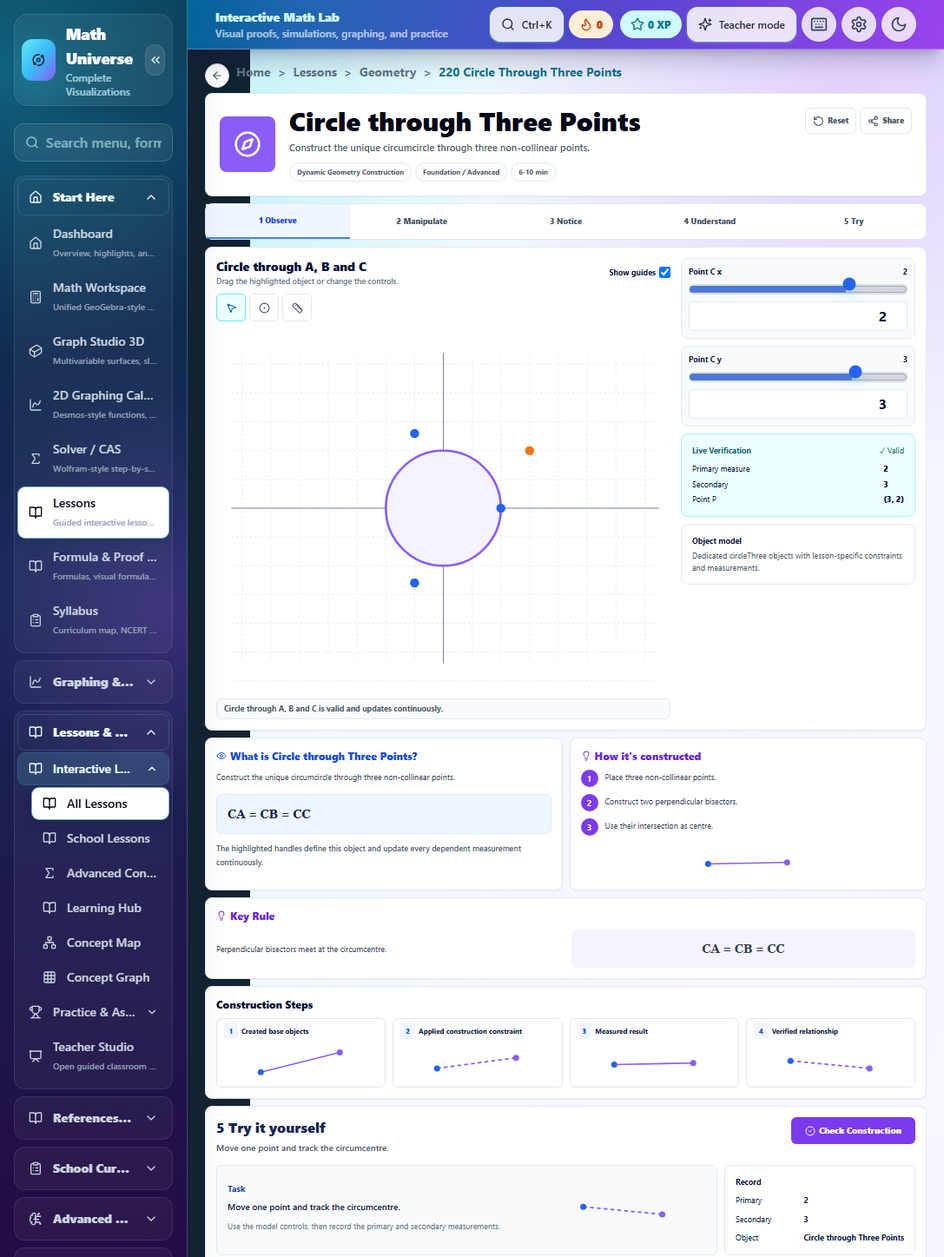
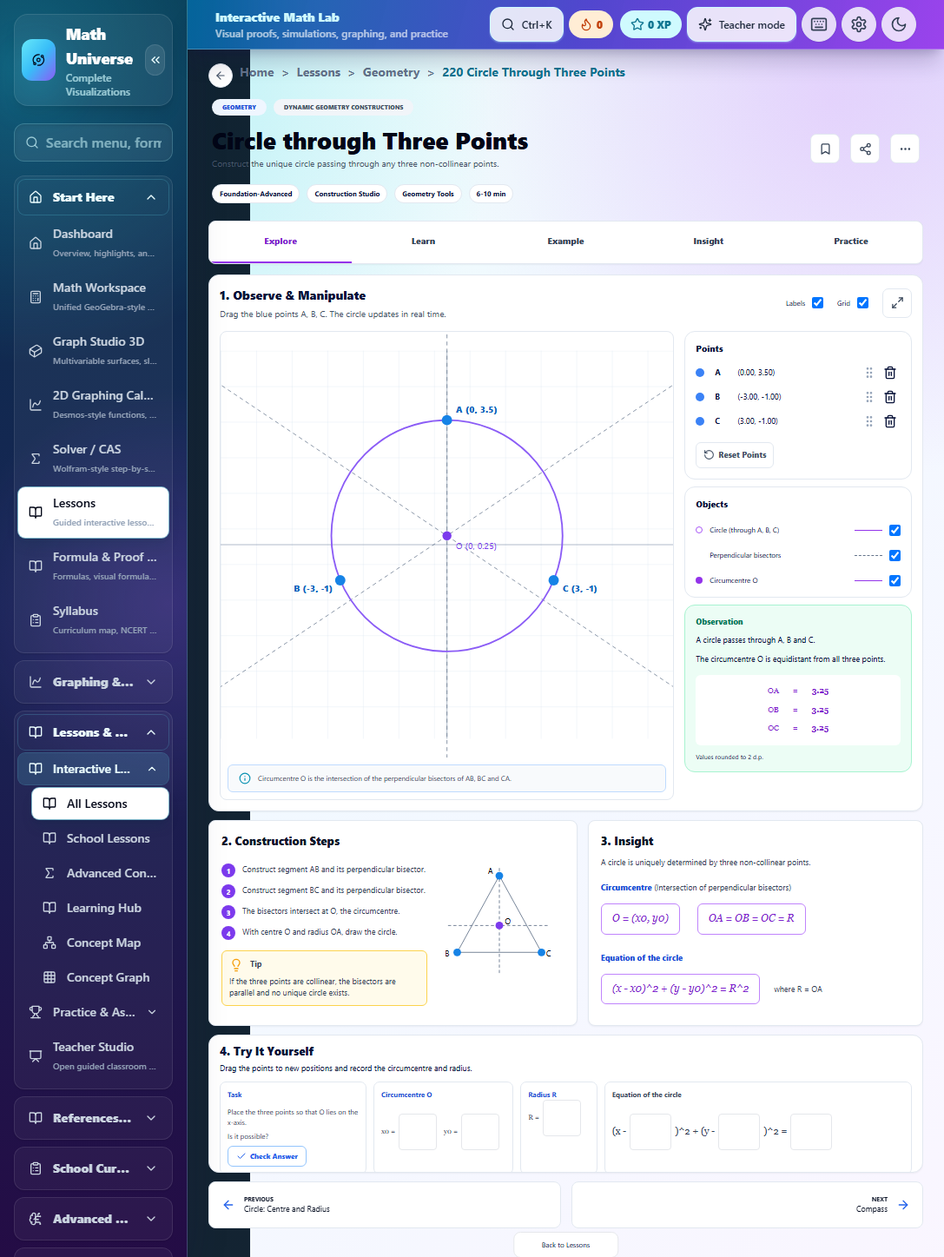
Rebuild three point circle lesson to match target UI

diff --git a/src/modules/lessons/adapters/CircleThreePointsTargetLesson220.tsx b/src/modules/lessons/adapters/CircleThreePointsTargetLesson220.tsx
@@ -1,0 +1,69 @@
+import {
+  ArrowLeft,
+  ArrowRight,
+  Bookmark,
+  Check,
+  Ellipsis,
+  GripVertical,
+  Info,
+  Lightbulb,
+  Maximize2,
+  RotateCcw,
+  Share2,
+  Trash2,
+} from "lucide-react";
+import {
+  useEffect,
+  useMemo,
+  useRef,
+  useState,
+  type PointerEvent as ReactPointerEvent,
+} from "react";
+import type { LessonAdapterProps } from "../types";
+
+type Point={x:number;y:number};
+type Visibility={labels:boolean;grid:boolean;circle:boolean;bisectors:boolean;centre:boolean};
+const initialPoints:Point[]=[{x:0,y:3.5},{x:-3,y:-1},{x:3,y:-1}];
+const letters=['A','B','C'];
+const initialVisibility:Visibility={labels:true,grid:true,circle:true,bisectors:true,centre:true};
+
+export default function CircleThreePointsTargetLesson220({resetToken,onInteraction}:LessonAdapterProps){
+  const [points,setPoints]=useState<Point[]>(initialPoints);
+  const [visibility,setVisibility]=useState(initialVisibility);
+  const [drag,setDrag]=useState<number|null>(null);
+  const [answers,setAnswers]=useState(['','','','','','']);
+  const [feedback,setFeedback]=useState<'idle'|'correct'|'incorrect'>('idle');
+  const surfaceRef=useRef<HTMLElement>(null);
+  const model=useMemo(()=>circumcircle(points),[points]);
+  const reset=()=>{setPoints(initialPoints);setVisibility(initialVisibility);setAnswers(['','','','','','']);setFeedback('idle');onInteraction()};
+  useEffect(()=>{setPoints(initialPoints);setVisibility(initialVisibility);setAnswers(['','','','','','']);setFeedback('idle')},[resetToken]);
+  const updatePoint=(index:number,point:Point)=>{setPoints(current=>current.map((value,i)=>i===index?{x:clamp(point.x,-5.5,5.5),y:clamp(point.y,-4.5,4.5)}:value));setFeedback('idle');onInteraction()};
+  const toggle=(key:keyof Visibility)=>{setVisibility(value=>({...value,[key]:!value[key]}));onInteraction()};
+  const check=()=>{if(!model.valid){setFeedback('incorrect');onInteraction();return}const expected=[model.centre.x,model.centre.y,model.radius,model.centre.x,model.centre.y,model.radius*model.radius];const right=answers.every((value,index)=>Math.abs(Number(value)-expected[index])<.06)&&Math.abs(model.centre.y)<.08;setFeedback(right?'correct':'incorrect');onInteraction()};
+
+  return <section ref={surfaceRef} className="space-y-3" style={{marginTop:-7}} data-testid="dynamic-geometry-mockup-0277" data-dedicated-lesson="220" data-object-model="three-point-circumcircle" data-direct-interaction="true" aria-label="Circle Through Three Points dedicated interactive geometry model">
+    <span className="sr-only">Live Verification. Check Construction.</span>
+    <header className="px-1 py-2"><div className="flex items-start justify-between gap-5"><div><div className="flex gap-2"><span className="rounded-full bg-blue-50 px-3 py-1 text-[7px] font-black uppercase text-blue-700">Geometry</span><span className="rounded-full bg-slate-100 px-3 py-1 text-[7px] font-black uppercase text-slate-600">Dynamic Geometry Constructions</span></div><h1 className="mt-3 text-[27px] font-black leading-8 text-slate-950">Circle through Three Points</h1><p className="mt-1 text-[10px] text-slate-600">Construct the unique circle passing through any three non-collinear points.</p><div className="mt-4 flex gap-2 text-[8px] font-bold"><span className="target-geometry-chip">Foundation-Advanced</span><span className="target-geometry-chip">Construction Studio</span><span className="target-geometry-chip">Geometry Tools</span><span className="target-geometry-chip">6-10 min</span></div></div><div className="mt-10 flex gap-3"><button type="button" className="target-three-icon" aria-label="Bookmark lesson"><Bookmark/></button><button type="button" className="target-three-icon" aria-label="Share lesson" onClick={()=>{void navigator.clipboard?.writeText(location.href);onInteraction()}}><Share2/></button><button type="button" className="target-three-icon" aria-label="More lesson options"><Ellipsis/></button></div></div></header>
+    <nav className="grid grid-cols-5 overflow-hidden rounded-lg border border-slate-200 bg-white shadow-sm">{['Explore','Learn','Example','Insight','Practice'].map((label,index)=><button type="button" key={label} className={`h-12 border-b-2 text-[10px] font-black ${index===0?'border-purple-600 text-purple-700':'border-transparent text-slate-700'}`} onClick={()=>{document.getElementById(index===4?'three-practice':index===3?'three-insight':index===1?'three-steps':'three-main')?.scrollIntoView({behavior:'smooth',block:'center'});onInteraction()}}>{label}</button>)}</nav>
+
+    <section id="three-main" className="rounded-xl border border-slate-200 bg-white p-3 shadow-sm"><div className="flex justify-between gap-3"><div><h2 className="text-[14px] font-black">1. Observe &amp; Manipulate</h2><p className="mt-1 text-[10px] text-slate-600">Drag the blue points A, B, C. The circle updates in real time.</p></div><div className="flex items-center gap-4 text-[8px]"><Switch label="Labels" checked={visibility.labels} onChange={()=>toggle('labels')}/><Switch label="Grid" checked={visibility.grid} onChange={()=>toggle('grid')}/><button type="button" className="target-three-icon" aria-label="Full screen construction" onClick={()=>{void surfaceRef.current?.requestFullscreen?.();onInteraction()}}><Maximize2/></button></div></div><div className="mt-3 grid gap-3 md:grid-cols-[minmax(0,2fr)_minmax(210px,1fr)]"><div className="overflow-hidden rounded-lg border border-slate-200"><CircumcircleCanvas points={points} model={model} visibility={visibility} drag={drag} onDrag={setDrag} onPoint={updatePoint} onAdd={point=>{if(points.length<3){setPoints(current=>[...current,point]);onInteraction()}}}/><p className="m-2 flex items-center gap-2 rounded-md border border-blue-200 bg-slate-50 px-3 py-2 text-[8px] text-slate-700"><Info className="h-3.5 w-3.5 text-cyan-600"/>Circumcentre O is the intersection of the perpendicular bisectors of AB, BC and CA.</p></div><aside className="space-y-2"><section className="rounded-xl border border-slate-200 p-3"><h3 className="text-[10px] font-black">Points</h3>{points.map((point,index)=><div key={index} className="mt-3 grid grid-cols-[14px_18px_1fr_16px_20px] items-center gap-2 text-[9px]"><span className="h-2.5 w-2.5 rounded-full bg-blue-500"/><b>{letters[index]}</b><span>({point.x.toFixed(2)}, {point.y.toFixed(2)})</span><GripVertical className="h-4 w-4 text-slate-400"/><button type="button" aria-label={`Remove point ${letters[index]}`} onClick={()=>{setPoints(current=>current.filter((_,i)=>i!==index));setFeedback('idle');onInteraction()}}><Trash2 className="h-4 w-4"/></button></div>)}<button type="button" className="target-geometry-action mt-4" onClick={reset}><RotateCcw/>Reset Points</button>{points.length<3&&<p className="mt-2 text-[8px] text-amber-700">Click the graph to add point {letters[points.length]}.</p>}</section><section className="rounded-xl border border-slate-200 p-3"><h3 className="text-[10px] font-black">Objects</h3><VisibilityRow label="Circle (through A, B, C)" checked={visibility.circle} mark="solid" onChange={()=>toggle('circle')}/><VisibilityRow label="Perpendicular bisectors" checked={visibility.bisectors} mark="dashed" onChange={()=>toggle('bisectors')}/><VisibilityRow label="Circumcentre O" checked={visibility.centre} mark="point" onChange={()=>toggle('centre')}/></section><section className={`rounded-xl border p-3 text-[9px] ${model.valid?'border-emerald-200 bg-emerald-50':'border-amber-300 bg-amber-50'}`}><h3 className={`font-black ${model.valid?'text-emerald-700':'text-amber-800'}`}>{model.valid?'Observation':'No unique circle'}</h3>{model.valid?<><p className="mt-2">A circle passes through A, B and C.</p><p className="mt-2">The circumcentre O is equidistant from all three points.</p><div className="mt-3 rounded-md bg-white p-2 font-serif text-purple-700"><Property label="OA" value={model.radius.toFixed(2)}/><Property label="OB" value={distance(model.centre,points[1]).toFixed(2)}/><Property label="OC" value={distance(model.centre,points[2]).toFixed(2)}/></div><small className="mt-2 block">Values rounded to 2 d.p.</small></>:<p className="mt-2">Three non-collinear points are required. Move or add a point to continue.</p>}</section></aside></div></section>
+
+    <section className="grid gap-3 md:grid-cols-[1.1fr_1fr]" style={{marginTop:10}}><article id="three-steps" className="target-three-card"><h2>2. Construction Steps</h2><div className="grid grid-cols-[1fr_150px] gap-2"><div>{['Construct segment AB and its perpendicular bisector.','Construct segment BC and its perpendicular bisector.','The bisectors intersect at O, the circumcentre.','With centre O and radius OA, draw the circle.'].map((text,index)=><p key={text} className="target-three-step"><b>{index+1}</b>{text}</p>)}<div className="mt-3 rounded-md border border-amber-300 bg-amber-50 p-2"><Lightbulb className="mr-2 inline h-4 w-4 text-amber-500"/><b>Tip</b><p className="mt-1">If the three points are collinear, the bisectors are parallel and no unique circle exists.</p></div></div><MiniCircumcircle/></div></article><article id="three-insight" className="target-three-card"><h2>3. Insight</h2><p>A circle is uniquely determined by three non-collinear points.</p><h3 className="mt-4 font-black text-blue-700">Circumcentre <span className="font-normal text-slate-700">(Intersection of perpendicular bisectors)</span></h3><div className="mt-3 flex gap-5"><Formula>O = (x0, y0)</Formula><Formula>OA = OB = OC = R</Formula></div><h3 className="mt-5 font-black text-blue-700">Equation of the circle</h3><div className="mt-3 flex items-center gap-4"><Formula>(x - x0)^2 + (y - y0)^2 = R^2</Formula><span>where R = OA</span></div></article></section>
+    <section id="three-practice" className="h-[159px] overflow-hidden rounded-xl border border-slate-200 bg-white px-3 py-2 shadow-sm" style={{marginTop:10}}><h2 className="text-[13px] font-black">4. Try It Yourself</h2><p className="mt-1 text-[9px]">Drag the points to new positions and record the circumcentre and radius.</p><div className="mt-2 grid gap-2 md:grid-cols-[1.05fr_1fr_.55fr_2.2fr]"><div className="target-three-practice"><b className="text-blue-700">Task</b><p className="mt-2">Place the three points so that O lies on the x-axis.</p><p className="mt-1">Is it possible?</p><button type="button" className="target-three-check" onClick={check}><Check/>Check Answer</button></div><div className="target-three-practice"><b className="text-blue-700">Circumcentre O</b><div className="mt-4 flex gap-2"><Input label="Circumcentre x" prefix="x0 =" value={answers[0]} onChange={value=>setAnswer(0,value,answers,setAnswers,setFeedback)}/><Input label="Circumcentre y" prefix="y0 =" value={answers[1]} onChange={value=>setAnswer(1,value,answers,setAnswers,setFeedback)}/></div></div><div className="target-three-practice"><b className="text-blue-700">Radius R</b><Input label="Circumcircle radius" prefix="R =" value={answers[2]} onChange={value=>setAnswer(2,value,answers,setAnswers,setFeedback)}/></div><div className="target-three-practice"><b>Equation of the circle</b><div className="mt-4 flex items-center gap-1 font-serif text-[11px]">(x - <BareInput label="Equation h" value={answers[3]} onChange={value=>setAnswer(3,value,answers,setAnswers,setFeedback)}/>)^2 + (y - <BareInput label="Equation k" value={answers[4]} onChange={value=>setAnswer(4,value,answers,setAnswers,setFeedback)}/>)^2 = <BareInput label="Equation radius squared" value={answers[5]} onChange={value=>setAnswer(5,value,answers,setAnswers,setFeedback)}/></div></div></div>{feedback!=='idle'&&<p role="status" className={`mt-1 text-right text-[8px] font-black ${feedback==='correct'?'text-emerald-700':'text-rose-700'}`}>{feedback==='correct'?'Correct circumcircle construction.':'Place O on the x-axis and record the live values.'}</p>}</section>
+    <nav className="relative grid grid-cols-2 gap-3" style={{marginTop:10}} aria-label="Adjacent lessons"><a className="target-three-nav" href="/lessons/geometry/219-circle-centre-and-radius"><ArrowLeft/><span><b>Previous</b>Circle: Centre and Radius</span></a><a className="target-three-nav justify-end text-right" href="/lessons/geometry/221-compass"><span><b>Next</b>Compass</span><ArrowRight/></a><a className="absolute left-1/2 top-[58px] flex -translate-x-1/2 items-center gap-2 rounded-lg border bg-white px-8 py-2 text-[8px]" href="/lessons">Back to Lessons</a></nav>
+  </section>
+}
+
+function CircumcircleCanvas({points,model,visibility,drag,onDrag,onPoint,onAdd}:{points:Point[];model:ReturnType<typeof circumcircle>;visibility:Visibility;drag:number|null;onDrag:(index:number|null)=>void;onPoint:(index:number,point:Point)=>void;onAdd:(point:Point)=>void}){const domain=(event:ReactPointerEvent<SVGSVGElement>)=>{const matrix=event.currentTarget.getScreenCTM();if(!matrix)return{x:0,y:0};const local=new DOMPoint(event.clientX,event.clientY).matrixTransform(matrix.inverse());return{x:(local.x-350)/55,y:(300-local.y)/55}};const screen=(p:Point)=>({x:350+p.x*55,y:300-p.y*55});return <svg role="img" aria-label="Interactive circumcircle through draggable points A B and C" className="h-[490px] w-full touch-none" viewBox="0 0 700 600" onPointerDown={event=>{if(points.length<3)onAdd(domain(event))}} onPointerMove={event=>{if(drag!==null)onPoint(drag,domain(event))}} onPointerUp={()=>onDrag(null)} onPointerCancel={()=>onDrag(null)}><defs><pattern id="three-grid" width="55" height="55" patternUnits="userSpaceOnUse"><path d="M55 0H0V55" fill="none" stroke="#dce7f2"/></pattern></defs>{visibility.grid&&<rect width="700" height="600" fill="url(#three-grid)"/>}<line x1="0" y1="300" x2="700" y2="300" stroke="#94a3b8"/><line x1="350" y1="0" x2="350" y2="600" stroke="#94a3b8"/>{model.valid&&visibility.bisectors&&points.map((point,index)=>{const next=points[(index+1)%3],mid={x:(point.x+next.x)/2,y:(point.y+next.y)/2},direction={x:-(next.y-point.y),y:next.x-point.x},length=Math.hypot(direction.x,direction.y),a={x:mid.x-direction.x/length*12,y:mid.y-direction.y/length*12},b={x:mid.x+direction.x/length*12,y:mid.y+direction.y/length*12},sa=screen(a),sb=screen(b);return <line key={index} x1={sa.x} y1={sa.y} x2={sb.x} y2={sb.y} stroke="#64748b" strokeDasharray="6 5"/>})}{model.valid&&visibility.circle&&<circle data-testid="three-point-circle" data-center-x={model.centre.x.toFixed(4)} data-center-y={model.centre.y.toFixed(4)} data-radius={model.radius.toFixed(4)} cx={screen(model.centre).x} cy={screen(model.centre).y} r={model.radius*55} fill="none" stroke="#8b5cf6" strokeWidth="2.5"/>}{model.valid&&visibility.centre&&<g><circle data-testid="circumcentre-o" cx={screen(model.centre).x} cy={screen(model.centre).y} r="7" fill="#7c3aed"/><text x={screen(model.centre).x+14} y={screen(model.centre).y+20} fill="#7c3aed" fontSize="14">O ({format(model.centre.x)}, {format(model.centre.y)})</text></g>}{points.map((point,index)=>{const p=screen(point);return <g key={index}><circle data-testid={`circumcircle-point-${index}`} cx={p.x} cy={p.y} r="8" fill="#1683e6" className="cursor-move" onPointerDown={event=>{event.stopPropagation();event.currentTarget.ownerSVGElement?.setPointerCapture(event.pointerId);onDrag(index)}}/>{visibility.labels&&<text x={p.x+(index===0?14:index===1?-72:14)} y={p.y+(index===0?-12:18)} fill="#0863be" fontSize="14" fontWeight="800">{letters[index]} ({format(point.x)}, {format(point.y)})</text>}</g>})}</svg>}
+function Switch({label,checked,onChange}:{label:string;checked:boolean;onChange:()=>void}){return <label className="flex items-center gap-2">{label}<input type="checkbox" checked={checked} onChange={onChange}/></label>}
+function VisibilityRow({label,checked,mark,onChange}:{label:string;checked:boolean;mark:string;onChange:()=>void}){return <label className="mt-4 flex items-center gap-2 text-[8px]"><span className={`h-2 w-2 ${mark==='point'?'rounded-full bg-purple-600':mark==='solid'?'rounded-full border border-purple-500':'text-slate-500'}`}/><span>{label}</span><span className={`ml-auto w-8 border-t ${mark==='dashed'?'border-dashed border-slate-500':'border-purple-600'}`}/><input type="checkbox" checked={checked} onChange={onChange}/></label>}
+function Property({label,value}:{label:string;value:string}){return <p className="flex justify-center gap-4 py-1"><span>{label}</span><span>=</span><b>{value}</b></p>}
+function Formula({children}:{children:React.ReactNode}){return <p className="rounded-md border border-purple-400 px-3 py-2 font-serif text-[12px] italic text-purple-700">{children}</p>}
+function MiniCircumcircle(){return <svg className="h-[150px] w-full" viewBox="0 0 170 150"><polygon points="85,15 30,115 140,115" fill="none" stroke="#64748b"/><line x1="85" y1="5" x2="85" y2="145" stroke="#64748b" strokeDasharray="4 3"/><line x1="18" y1="80" x2="150" y2="80" stroke="#64748b" strokeDasharray="4 3"/><circle cx="85" cy="80" r="5" fill="#7c3aed"/><circle cx="85" cy="15" r="5" fill="#1683e6"/><circle cx="30" cy="115" r="5" fill="#1683e6"/><circle cx="140" cy="115" r="5" fill="#1683e6"/><text x="92" y="78" fontSize="10">O</text><text x="70" y="13" fontSize="10">A</text><text x="14" y="120" fontSize="10">B</text><text x="146" y="120" fontSize="10">C</text></svg>}
+function Input({label,prefix,value,onChange}:{label:string;prefix:string;value:string;onChange:(value:string)=>void}){return <label className="flex items-center gap-1 font-serif">{prefix}<input aria-label={label} className="w-11 rounded border px-1 py-2 text-center" value={value} onChange={event=>onChange(event.target.value)}/></label>}
+function BareInput({label,value,onChange}:{label:string;value:string;onChange:(value:string)=>void}){return <input aria-label={label} className="w-12 rounded border px-1 py-2 text-center" value={value} onChange={event=>onChange(event.target.value)}/>} 
+function setAnswer(index:number,value:string,answers:string[],setAnswers:(values:string[])=>void,setFeedback:(value:'idle')=>void){setAnswers(answers.map((item,i)=>i===index?value:item));setFeedback('idle')}
+function circumcircle(points:Point[]){if(points.length!==3)return{valid:false as const,centre:{x:0,y:0},radius:0};const[a,b,c]=points,d=2*(a.x*(b.y-c.y)+b.x*(c.y-a.y)+c.x*(a.y-b.y));if(Math.abs(d)<1e-5)return{valid:false as const,centre:{x:0,y:0},radius:0};const a2=a.x*a.x+a.y*a.y,b2=b.x*b.x+b.y*b.y,c2=c.x*c.x+c.y*c.y,centre={x:(a2*(b.y-c.y)+b2*(c.y-a.y)+c2*(a.y-b.y))/d,y:(a2*(c.x-b.x)+b2*(a.x-c.x)+c2*(b.x-a.x))/d};return{valid:true as const,centre,radius:distance(centre,a)}}
+function distance(a:Point,b:Point){return Math.hypot(b.x-a.x,b.y-a.y)}
+function format(value:number){return Number(value.toFixed(2)).toString()}
+function clamp(value:number,min:number,max:number){return Math.min(max,Math.max(min,value))}

diff --git a/src/index.css b/src/index.css
@@ -363,6 +363,112 @@
   text-transform: uppercase;
 }
 
+.target-three-icon {
+  display: grid;
+  width: 34px;
+  height: 34px;
+  place-items: center;
+  border: 1px solid #e2e8f0;
+  border-radius: 7px;
+  background: white;
+  color: #334155;
+}
+
+.target-three-icon svg {
+  width: 15px;
+  height: 15px;
+}
+
+.target-three-card {
+  height: 237px;
+  overflow: hidden;
+  border: 1px solid #e2e8f0;
+  border-radius: 8px;
+  background: white;
+  padding: 14px;
+  color: #334155;
+  font-size: 9px;
+  line-height: 1.45;
+  box-shadow: 0 1px 2px rgb(15 23 42 / 0.05);
+}
+
+.target-three-card h2 {
+  margin-bottom: 9px;
+  color: #0f172a;
+  font-size: 13px;
+  font-weight: 900;
+}
+
+.target-three-step {
+  display: flex;
+  gap: 8px;
+  margin-top: 8px;
+}
+
+.target-three-step b {
+  display: grid;
+  width: 16px;
+  height: 16px;
+  flex: none;
+  place-items: center;
+  border-radius: 999px;
+  background: #7c3aed;
+  color: white;
+  font-size: 8px;
+}
+
+.target-three-practice {
+  min-height: 94px;
+  border: 1px solid #e2e8f0;
+  border-radius: 7px;
+  padding: 8px;
+  color: #334155;
+  font-size: 8px;
+}
+
+.target-three-check {
+  display: flex;
+  align-items: center;
+  gap: 4px;
+  margin-top: 5px;
+  border: 1px solid #93c5fd;
+  border-radius: 6px;
+  padding: 5px 9px;
+  color: #2563eb;
+  font-size: 8px;
+  font-weight: 900;
+}
+
+.target-three-check svg {
+  width: 12px;
+  height: 12px;
+}
+
+.target-three-nav {
+  display: flex;
+  height: 54px;
+  align-items: center;
+  gap: 10px;
+  border: 1px solid #e2e8f0;
+  border-radius: 8px;
+  background: white;
+  padding: 8px 14px;
+  color: #0f172a;
+  font-size: 9px;
+}
+
+.target-three-nav svg {
+  width: 16px;
+  height: 16px;
+  color: #2563eb;
+}
+
+.target-three-nav b {
+  display: block;
+  font-size: 7px;
+  text-transform: uppercase;
+}
+
 :root {
   color-scheme: light;
   font-synthesis: none;

diff --git a/src/components/layout/AppLayout.tsx b/src/components/layout/AppLayout.tsx
@@ -81,7 +81,8 @@ function AppFooter() {
   if (
     location.pathname === "/lessons/geometry/200-intersection-point" ||
     location.pathname === "/lessons/geometry/203-line-through-two-points" ||
-    location.pathname === "/lessons/geometry/218-circle-centre-and-point"
+    location.pathname === "/lessons/geometry/218-circle-centre-and-point" ||
+    location.pathname === "/lessons/geometry/220-circle-through-three-points"
   )
     return null;
   if (usesTargetCompactFooter) {
@@ -277,6 +278,8 @@ export default function AppLayout() {
     location.pathname === "/lessons/geometry/217-general-polygon";
   const isCircleCentreRadiusTarget =
     location.pathname === "/lessons/geometry/219-circle-centre-and-radius";
+  const isCircleThreePointsTarget =
+    location.pathname === "/lessons/geometry/220-circle-through-three-points";
 
   useEffect(() => {
     setMobileOpen(false);
@@ -403,7 +406,7 @@ export default function AppLayout() {
           <main
             ref={mainContentRef}
             id="main-content"
-            className={`app-fullscreen-target mx-auto w-full max-w-[1440px] flex-1 pb-24 pt-2 md:pb-0 md:pt-4 ${isCompassTarget || isRigidPolygonTarget ? "px-3" : isGeneralPolygonTarget || isCircleCentreRadiusTarget ? "px-4" : "px-2 sm:px-4 md:px-5"}`}
+            className={`app-fullscreen-target mx-auto w-full max-w-[1440px] flex-1 pb-24 pt-2 md:pb-0 md:pt-4 ${isCompassTarget || isRigidPolygonTarget ? "px-3" : isGeneralPolygonTarget || isCircleCentreRadiusTarget ? "px-4" : isCircleThreePointsTarget ? "px-6" : "px-2 sm:px-4 md:px-5"}`}
           >
             {!location.pathname.startsWith("/lessons/") && (
               <button

diff --git a/src/modules/lessons/adapters/Geometry2DLessonAdapter.test.tsx b/src/modules/lessons/adapters/Geometry2DLessonAdapter.test.tsx
@@ -588,6 +588,24 @@ describe("Geometry2DLessonAdapter", () => {
     expect(html).not.toContain('aria-label="Centre x" type="range"');
   });
 
+  it("renders Circle Through Three Points with a circumcircle dependency", () => {
+    const lesson = lessonCatalog.find((item) => item.id === 220)!;
+    const html = renderToStaticMarkup(
+      <Geometry2DLessonAdapter lesson={lesson} resetToken={0} onInteraction={vi.fn()} />,
+    );
+
+    expect(html).toContain("Interactive circumcircle through draggable points A B and C");
+    expect(html).toContain('data-testid="circumcircle-point-0"');
+    expect(html).toContain('data-testid="three-point-circle"');
+    expect(html).toContain('data-testid="circumcentre-o"');
+    expect(html).toContain("Perpendicular bisectors");
+    expect(html).toContain("If the three points are collinear");
+    expect(html).toContain('aria-label="Circumcentre x"');
+    expect(html).toContain('aria-label="Equation radius squared"');
+    expect(html).not.toContain('aria-label="Point C x"');
+    expect(html).not.toContain('aria-label="Point C y"');
+  });
+
   it("renders geometry lessons 236 through 245 with transformation guidance", () => {
     const expectedSnippets: Record<number, string> = {
       236: "Translation by vector",

diff --git a/src/modules/lessons/adapters/GeometryTargetLessons206to235.tsx b/src/modules/lessons/adapters/GeometryTargetLessons206to235.tsx
@@ -33,6 +33,7 @@ import RigidPolygonTargetLesson from "./RigidPolygonTargetLesson216";
 import GeneralPolygonTargetLesson from "./GeneralPolygonTargetLesson217";
 import CircleCentrePointTargetLesson from "./CircleCentrePointTargetLesson218";
 import CircleCentreRadiusTargetLesson from "./CircleCentreRadiusTargetLesson219";
+import CircleThreePointsTargetLesson from "./CircleThreePointsTargetLesson220";
 import CompassTargetLesson from "./CompassTargetLesson221";
 import RayTargetLesson from "./RayTargetLesson206";
 
@@ -543,8 +544,7 @@ function named(id: number) {
     <DedicatedGeometrySurface {...props} spec={specs[id]} />
   );
 }
-export const CircleThreePointsTargetLesson = named(220),
-  SemicircleTargetLesson = named(222),
+export const SemicircleTargetLesson = named(222),
   CircularArcTargetLesson = named(223),
   CircumcircularArcTargetLesson = named(224),
   CircularSectorTargetLesson = named(225),

diff --git a/test-evidence/lesson-ui-upgrade/0263-0292-dynamic-geometry-progress-note.md b/test-evidence/lesson-ui-upgrade/0263-0292-dynamic-geometry-progress-note.md
@@ -29,7 +29,7 @@ Updated 2026-08-24. This batch replaces the generic construction fallback for le
 | 0274 | 217 General Polygon | `editableGeneralPolygon` | Reworked individually and browser-validated |
 | 0275 | 218 Circle Centre and Point | `circleCentreThroughPoint` | Reworked individually and browser-validated |
 | 0276 | 219 Circle Centre and Radius | `circleCentreFixedRadius` | Reworked individually and browser-validated |
-| 0277 | 220 Circle through Three Points | `circleThree` | Implemented and browser-validated |
+| 0277 | 220 Circle through Three Points | `threePointCircumcircle` | Reworked individually and browser-validated |
 | 0278 | 221 Compass | `compassDistanceTransfer` | Reworked individually and browser-validated |
 | 0279 | 222 Semicircle | `semicircle` | Implemented and browser-validated |
 | 0280 | 223 Circular Arc | `arc` | Implemented and browser-validated |
@@ -110,6 +110,10 @@ Reworked individually against the target mockup. Removed the generic circle, Poi
 ### Lesson 219 / Mockup 0276 - Circle Centre and Radius
 
 Reworked individually against the target mockup. Removed the generic circle, Radius and Centre x sliders, generic object-model panel, repeated construction cards, and template verification record. The dedicated surface owns centre C, an independent numeric radius r, and an angular compass handle P derived from those values. Dragging C translates the circle and P without changing r; dragging P changes radius and orientation without moving C. Both pointer paths use the SVG screen transformation matrix so the model remains aligned with the cursor at the target aspect ratio. Centre steppers and exact inputs, radius slider/input/steppers, units menu, Select, Move, Compass, reset, language, share, stage navigation, and section navigation are functional. The live CP measurement, dynamic centre-radius equation, observation/compass panel, four-step worked construction, target diagram, and C(-3, 2), r=4 practice check follow mockup 0276. Final 997x1578 browser validation proves translation preserves the exact radius attribute, proves compass dragging preserves the exact centre coordinate, exercises all tools and controls, submits the target construction successfully, reports no overflow or console errors, and places the lesson boundary at 1459px against the target's 1461px boundary.
+
+### Lesson 220 / Mockup 0277 - Circle Through Three Points
+
+Reworked individually against the target mockup. Removed the generic three-dot circle, Point C x and Point C y sliders, generic object-model panel, repeated construction cards, and template verification record. The dedicated model owns three unrestricted draggable points A, B, and C and calculates the unique circumcentre with the determinant formula. The circle radius, all three perpendicular bisectors, circumcentre label, coordinate list, and OA/OB/OC verification derive from that result. When the determinant reaches zero, the circle and circumcentre disappear and the surface reports that no unique circle exists. Points can be removed from the object list and restored by clicking the graph; reset, labels, grid, circle, bisectors, centre, bookmark, share, fullscreen, stage navigation, adjacent navigation, and Back to Lessons are functional. The construction-step diagram, collinearity tip, circumcentre/equidistance formulas, and six-field practice equation follow mockup 0277. Final 1087x1447 browser validation drags A and confirms O changes, makes all three points exactly collinear and confirms the circle disappears, removes and replaces C, exercises every visibility control, places O on the x-axis, submits values derived from the live SVG model, and reports no overflow or console errors. The viewport includes the complete practice controls, navigation, and Back to Lessons link without scrolling.
 
 ### Lesson 221 / Mockup 0278 - Compass
 
